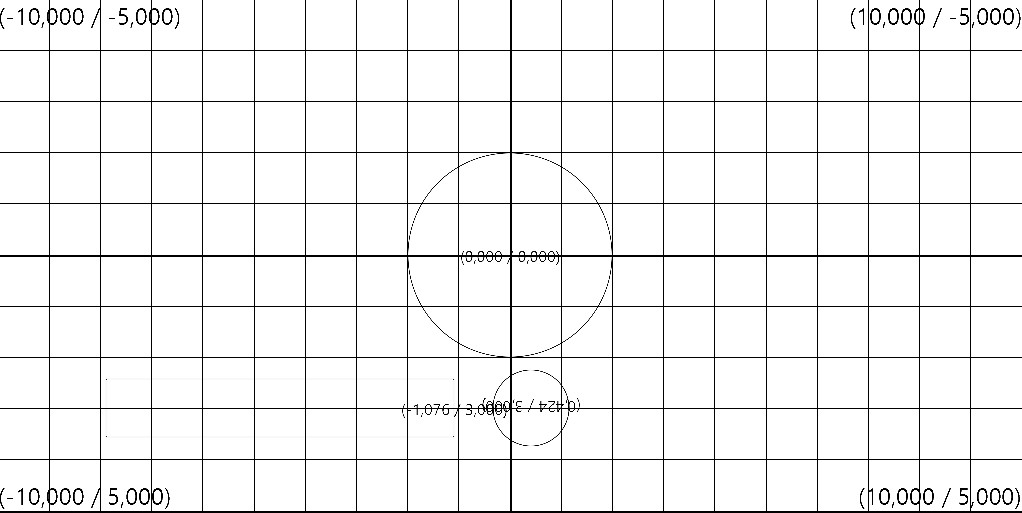
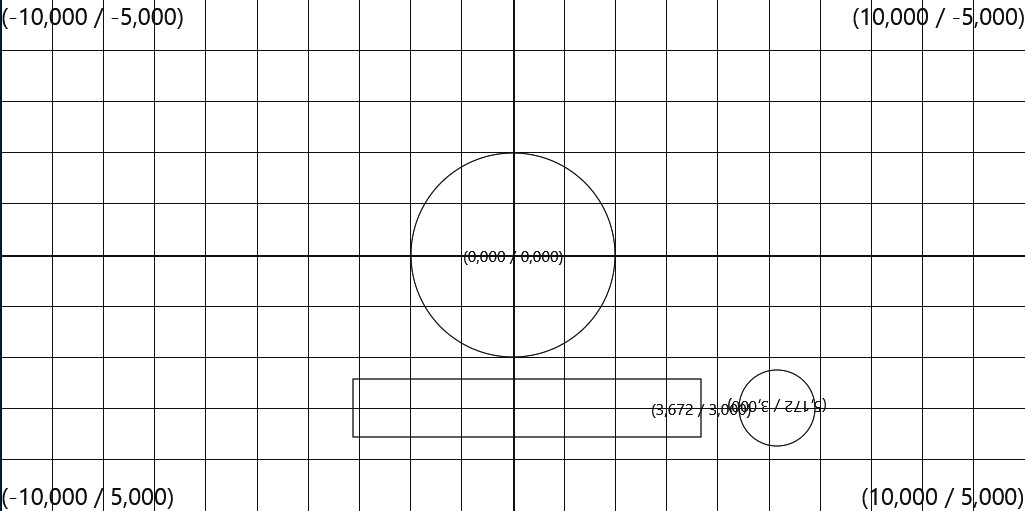
Grafik Losdaddeln2_Raster.jpg und README.doc korrigiert

diff --git a/daddel-example/src/main/java/de/dreierschach/tutorial/Losdaddeln2.java b/daddel-example/src/main/java/de/dreierschach/tutorial/Losdaddeln2.java
@@ -13,7 +13,8 @@ public class Losdaddeln2 extends Daddel {
 	@Override
 	public void initGame() {
 		grid(-10, 10, -5, 5);
-		background(Color.rgb(0, 64, 255));
+//		background(Color.rgb(0, 64, 255));
+		background(Color.WHITE);
 		toLevel(() -> {
 			sprite(1, 4, GFX_ROCKET);
 			
